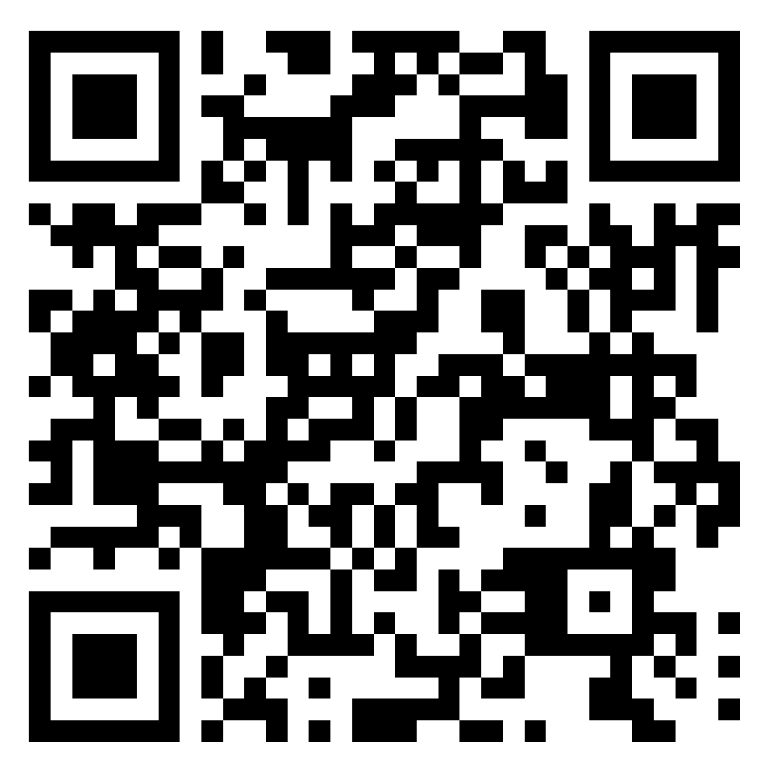
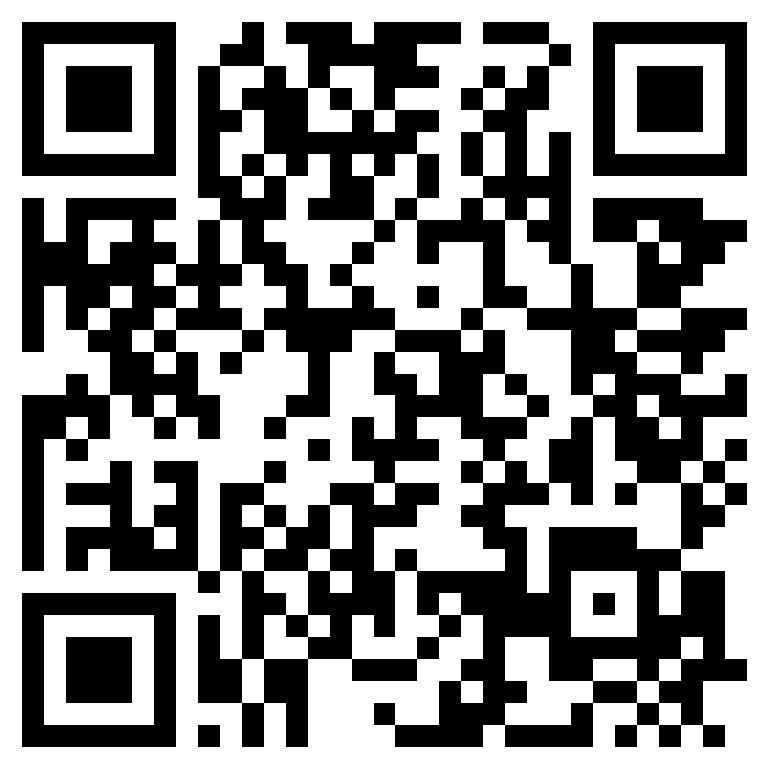
New WhatsApp group link everywhere: invite button, khata/order WhatsApp texts, driver bill footer, Facebook About, Reel end-card QR

diff --git a/src/features/driver/DriverApp.tsx b/src/features/driver/DriverApp.tsx
@@ -355,7 +355,7 @@ function Receipt({ day, stop, actionId, onDone }: { day: Day; stop: StopState; a
   const text = [
     `*${t('driver.billFor', { shop: stop.shop.name })}*`, `${t('driver.billNo')}: ${number}`, new Date().toLocaleDateString('en-IN'), '',
     ...lines.map((l) => `${variantLabel(cat.get(l.id)!, hi)} × ${l.qty} = ${formatPaise(l.qty * l.price)}`), '',
-    `${t('shop.total')}: ${formatPaise(total)}`, paid ? `${t('driver.paid')}: ${formatPaise(paid)}` : '', '', t('app.billFooter'), '', 'Offers ke liye group join karein: https://chat.whatsapp.com/DrCMzkTTp4Q8ozaXZ4KIXm',
+    `${t('shop.total')}: ${formatPaise(total)}`, paid ? `${t('driver.paid')}: ${formatPaise(paid)}` : '', '', t('app.billFooter'), '', 'Offers ke liye group join karein: https://chat.whatsapp.com/L2oweV0q01131uUae2RpLu',
   ].filter((x) => x !== '').join('\n')
   const wa = stop.shop.phone ? `https://wa.me/91${stop.shop.phone}?text=${encodeURIComponent(text)}` : `https://wa.me/?text=${encodeURIComponent(text)}`
 

diff --git a/src/features/admin/DashboardPage.tsx b/src/features/admin/DashboardPage.tsx
@@ -257,7 +257,7 @@ function CallShops({ shops }: { shops: Shop[] }) {
   )
 }
 
-const GROUP_LINK = 'https://chat.whatsapp.com/DrCMzkTTp4Q8ozaXZ4KIXm'
+const GROUP_LINK = 'https://chat.whatsapp.com/L2oweV0q01131uUae2RpLu'
 type Invite = { id: string; name: string; owner_name: string | null; phone: string; locality: string | null; bought: boolean; left_count: number }
 
 /** WhatsApp community: up to 50 shops a day to send the group link to. Buyers first, then by area. */
